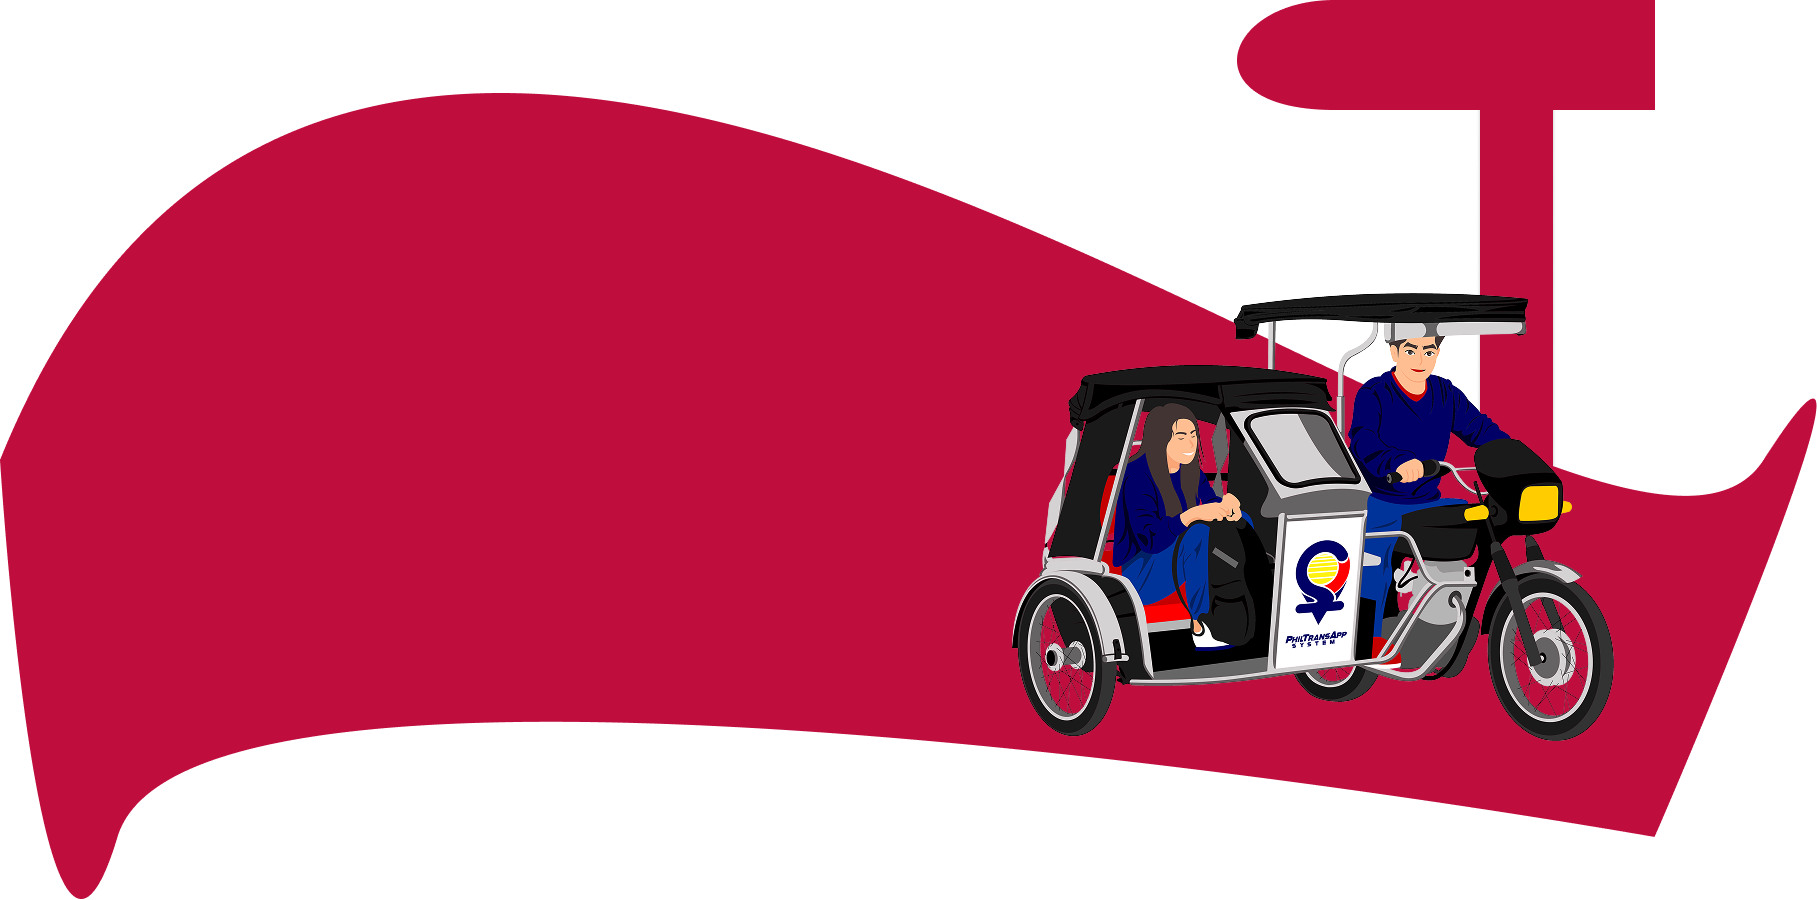
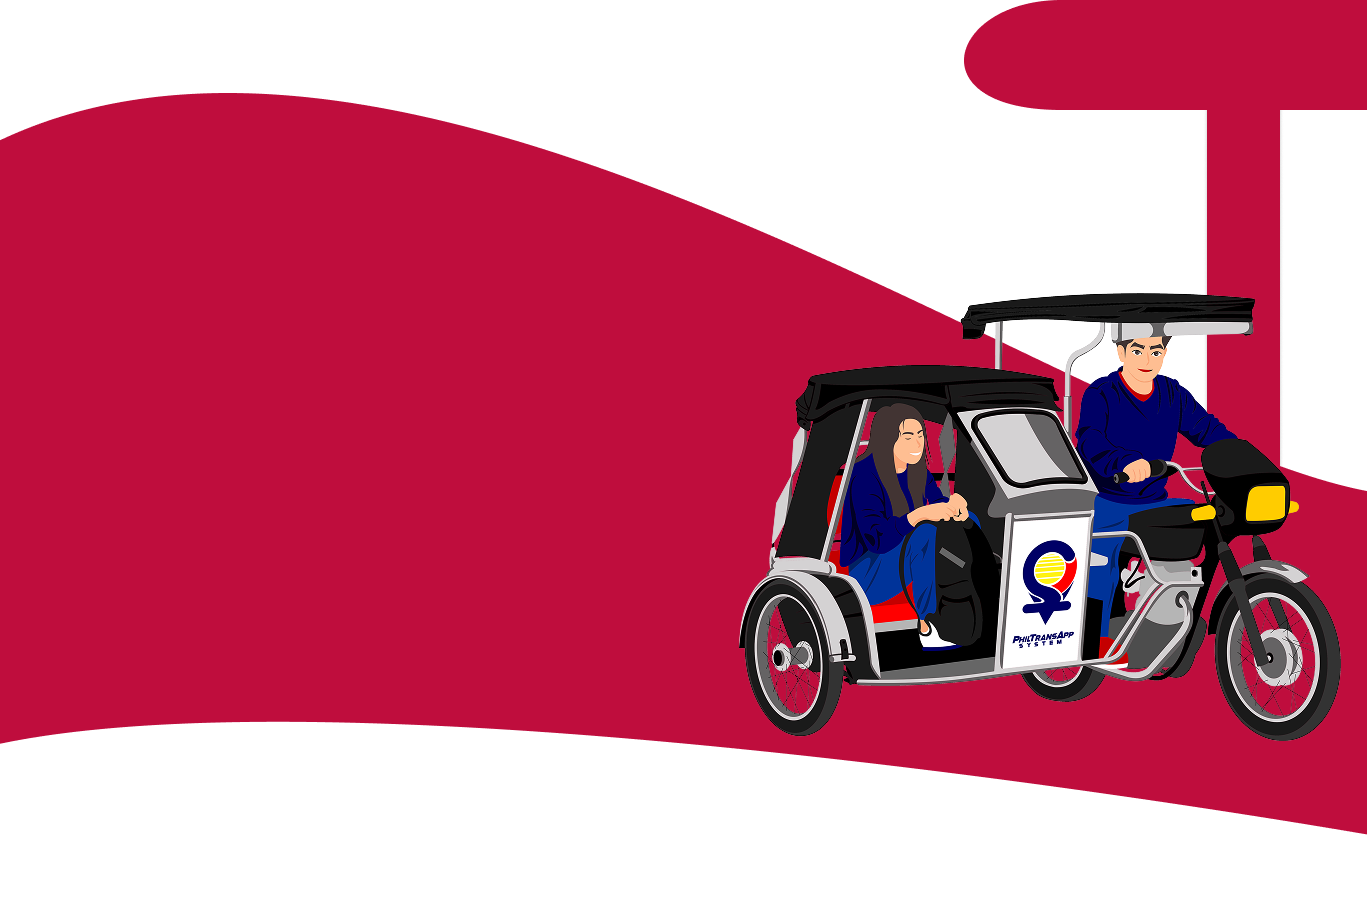
About and MVision Desktop Done

diff --git a/src/about_mvision.php b/src/about_mvision.php
@@ -1,0 +1,62 @@
+<link rel="stylesheet" href="main.css">
+<link href="https://cdn.jsdelivr.net/npm/bootstrap@5.3.3/dist/css/bootstrap.min.css" rel="stylesheet"/>
+
+<body>
+   <section class="d-flex align-items-center text-white" 
+   style="background-image: url('../images/about_background.png'); 
+   background-size: contain; 
+   background-position: center; 
+   background-repeat: no-repeat;
+   height: 1000px;">
+   
+<div class="position-absolute top-0 end-0 mt-4 me-5 pt-2 fw-bold fs-1">
+      ABOUT US
+</div>
+        <div class="col-lg-6 ms-5">
+          <h2 class="fw-bold">PTAS: REVOLUTIONIZING RIDES AND REDEFINING THE TRYCICLE INDUSTRY</h2>
+          <p class="mt-4 fs-3">
+            In the ever-evolving landscape of transportation, PTAS emerges as more than just another app. 
+            It shatters the mold of traditional ride-hailing services, offering a revolutionary approach centered around the very people who keep the tricycle industry moving – the drivers. 
+            PTAS transcends the mere act of getting you from point A to point B; it's a catalyst for positive change, empowering drivers, enhancing passenger experiences.
+          </p>
+        </div>
+  </section>
+
+ <section class="container py-5 text-black">
+  <!-- MISSION Section -->
+  <div class="row align-items-center" style="margin-bottom:200px;" >
+    <div class="col-md-5 text-center">
+      <img src="../images/mission.png" alt="Mission Image" class="img-fluid" style="max-width: 400px;">
+    </div>
+    <div class="col-md-7">
+      <h1 class="text-danger fw-bold">MISSION</h1>
+      <p class="mt-4 fs-3">
+        Our mission is to empower every tricycle driver in the Philippines with cutting-edge technology, transforming their profession and boosting their income.
+        By embracing innovation, we aim to elevate the national transportation system while preserving the iconic tricycle experience.
+        Our commitment extends to passenger comfort, ensuring a smoother and more enjoyable journey for all Filipinos.
+      </p>
+    </div>
+  </div>
+  
+  <!-- VISION Section -->
+  <div class="row align-items-center flex-md-row-reverse" style="margin-bottom:150px;">
+    <div class="col-md-5 text-center">
+      <img src="../images/vision.png" alt="Vision Image" class="img-fluid" style="max-width: 400px;">
+    </div>
+    <div class="col-md-7 text-md-end">
+      <h1 class="text-danger fw-bold">VISION</h1>
+      <p class="mt-4 fs-3">
+        In a future powered by our app, tricycle rides become effortless. Passengers tap their way to their destination, matched efficiently with nearby drivers for prompt service.
+        We ensure fair fares through transparent calculations, benefitting both riders (confident pricing) and drivers (consistent income).
+        Our commitment extends to the community, partnering with locals to improve the tricycle system and elevate overall well-being.
+        This future of tricycles is not just tech-driven, but deeply rooted in the communities it serves.
+      </p>
+    </div>
+  </div>
+
+  <div class="row d-flex justify-content-center" >
+    <img src="../images/ads.png"  alt="Ads" style="width: 100%; max-width: 800px;">
+  </div>
+</section>
+
+</body>
